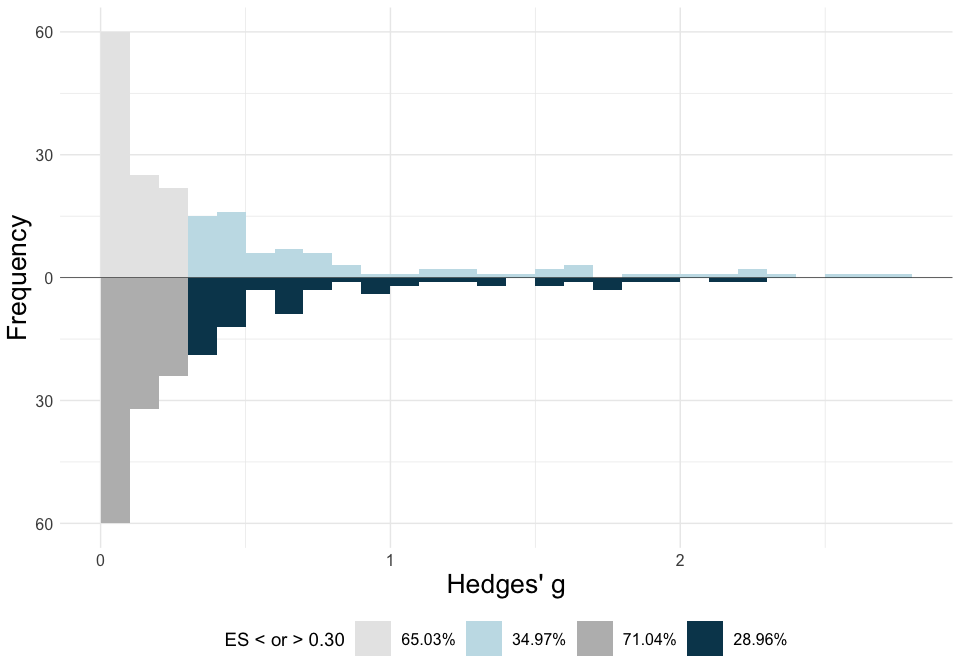
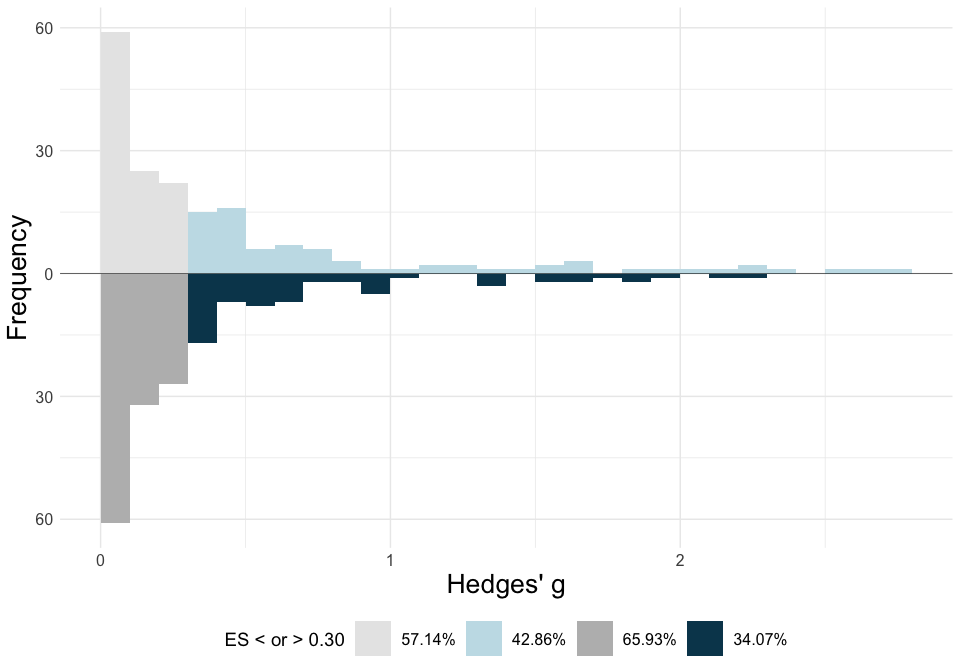
Update README

diff --git a/README.md b/README.md
@@ -22,9 +22,15 @@ with:
 ``` r
 library(devtools)
 devtools::install_github("berntgl/ESDist")
+#> utf8    (1.2.3 -> 1.2.4) [CRAN]
+#> vctrs   (0.6.3 -> 0.6.4) [CRAN]
+#> fansi   (1.0.4 -> 1.0.5) [CRAN]
+#> ggplot2 (3.4.3 -> 3.4.4) [CRAN]
 #> 
+#> The downloaded binary packages are in
+#>  /var/folders/j7/lmhpj_jj73qfc31klr2wh3vw0000gp/T//Rtmp0NjmSX/downloaded_packages
 #> ── R CMD build ─────────────────────────────────────────────────────────────────
-#> * checking for file ‘/private/var/folders/j7/lmhpj_jj73qfc31klr2wh3vw0000gp/T/Rtmp5Wg8I2/remotesddaf64c4f769/berntgl-ESDist-41a45d7/DESCRIPTION’ ... OK
+#> * checking for file ‘/private/var/folders/j7/lmhpj_jj73qfc31klr2wh3vw0000gp/T/Rtmp0NjmSX/remotesca616aeeb2f/berntgl-ESDist-b4c73d8/DESCRIPTION’ ... OK
 #> * preparing ‘ESDist’:
 #> * checking DESCRIPTION meta-information ... OK
 #> * checking for LF line-endings in source and make files and shell scripts
@@ -53,29 +59,29 @@ head(ESDist::ot_dat)
 #> 2 bakermans_kranenburg 10.1038/tp.2013.34               2018  averbeck_2012
 #> 3 bakermans_kranenburg 10.1038/tp.2013.34               2018  den-boer_1992
 #> 4 bakermans_kranenburg 10.1038/tp.2013.34               2018 epperson_1996a
-#> 5 bakermans_kranenburg 10.1038/tp.2013.34               2018 epperson_1996b
 #> 6 bakermans_kranenburg 10.1038/tp.2013.34               2018    feifel_2010
+#> 7 bakermans_kranenburg 10.1038/tp.2013.34               2018   goldman_2011
 #>                        study_doi study_year     yi lower upper   sei group
 #> 1        10.1073/pnas.0910249107       2010  0.534    NA    NA 0.281   ASD
 #> 2      10.1017/S0033291711001413       2012  0.192    NA    NA 0.192   SCZ
 #> 3   10.1016/0196-9781(92)90010-Z       1992 -0.877    NA    NA 0.563   OCD
 #> 4   10.1016/0006-3223(96)00120-5       1996  0.461    NA    NA 0.226   OCD
-#> 5   10.1016/0006-3223(96)00165-5       1996  0.000    NA    NA 0.000   OCD
 #> 6 10.1016/j.biopsych.2010.04.039       2010  0.520    NA    NA 0.265   SCZ
+#> 7      10.1007/s00213-011-2193-8       2011  0.000    NA    NA 0.262   SCZ
 #>   group_secondary favours_oxytocin    doses  meta_analysis_pop_ind  design n1
 #> 1                         positive   single bakermans_kranenburg_1  Within NA
 #> 2                         positive   single bakermans_kranenburg_1  Within NA
 #> 3                         positive multiple bakermans_kranenburg_1 Between  6
 #> 4                         positive multiple bakermans_kranenburg_1  Within NA
-#> 5                         positive multiple bakermans_kranenburg_1  Within NA
 #> 6                         positive multiple bakermans_kranenburg_1  Within NA
+#> 7                         positive   single bakermans_kranenburg_1  Within NA
 #>   n2 n_total   es_type raw_es ID raw_se df  h_factor
 #> 1 NA      13 Cohen's d   0.57  1   0.30 12 0.9361702
 #> 2 NA      21 Cohen's d   0.20  2   0.20 20 0.9620253
 #> 3  6      NA Cohen's d  -0.95  4   0.61 10 0.9230769
 #> 4 NA       7 Cohen's d   0.53  5   0.26  6 0.8695652
-#> 5 NA       2 Cohen's d   0.00  6   0.71  1 0.0000000
 #> 6 NA      15 Cohen's d   0.55  7   0.28 14 0.9454545
+#> 7 NA      13 Cohen's d   0.00  8   0.28 12 0.9361702
 ```
 
 ## esd_plot()
@@ -87,8 +93,6 @@ estimates obtained from meta-analyses.
 
 ``` r
 library(ESDist)
-library(dplyr)
-library(ggplot2)
 ```
 
 ``` r
@@ -248,7 +252,7 @@ table1 <- esd_table(df = ot_dat,
 
 table1
 #>                  25%  50% 75% Number of effects
-#> Raw effect size 0.06 0.23 0.5               183
+#> Raw effect size 0.06 0.24 0.5               182
 ```
 
 ### Calculate effect size benchmarks per group
@@ -264,17 +268,16 @@ table3 <- esd_table(df = ot_dat,
                     grouping_var = group)
 
 table3
-#>           Group  25%  50%  75% Number of effects
-#> 1            AN 0.02 0.05 0.06                 6
-#> 2           ASD 0.11 0.31 0.55                32
-#> 3           BPD 0.16 1.22 2.29                 5
-#> 4           OCD 0.23 0.46 0.67                 3
-#> 5          PTSD 0.20 0.32 0.38                 6
-#> 6           SCZ 0.05 0.13 0.24                20
-#> 7       anxiety 0.19 0.31 0.41                 4
-#> 8    depression 0.21 0.45 0.91                 6
-#> 9  neurotypical 0.05 0.25 0.66                89
-#> 10          All 0.06 0.23 0.50               183
+#>          Group  25%  50%  75% Number of effects
+#> 1           AN 0.02 0.05 0.06                 6
+#> 2          ASD 0.11 0.31 0.55                32
+#> 3          BPD 0.16 1.22 2.29                 5
+#> 4         PTSD 0.20 0.32 0.38                 6
+#> 5          SCZ 0.05 0.13 0.24                20
+#> 6      anxiety 0.19 0.31 0.41                 4
+#> 7   depression 0.21 0.45 0.91                 6
+#> 8 neurotypical 0.05 0.25 0.66                89
+#> 9          All 0.06 0.24 0.50               182
 ```
 
 ## esd_table_pba()
@@ -288,8 +291,8 @@ table4 <- esd_table_pba(lim_obj = l1)
 
 table4
 #>                       25%  50%  75% Number of effects
-#> Raw effect size      0.06 0.23 0.50               183
-#> Adjusted effect size 0.06 0.20 0.41               183
+#> Raw effect size      0.06 0.24 0.50               182
+#> Adjusted effect size 0.08 0.20 0.39               182
 ```
 
 In case the user wants effect size benchmarks per group, the user should
@@ -310,25 +313,23 @@ table5 <- esd_table_pba(lim_obj = l2,
 table5
 #>                        25%  50%  75% Number of effects
 #> AN                    0.02 0.05 0.06                 6
-#> AN adjusted           0.02 0.04 0.07                 6
+#> AN adjusted           0.04 0.07 0.09                 6
 #> ASD                   0.11 0.31 0.55                32
-#> ASD adjusted          0.11 0.26 0.42                32
+#> ASD adjusted          0.10 0.23 0.39                32
 #> BPD                   0.16 1.22 2.29                 5
-#> BPD adjusted          0.17 0.97 1.74                 5
-#> OCD                   0.23 0.46 0.67                 3
-#> OCD adjusted          0.32 0.40 0.54                 3
+#> BPD adjusted          0.19 0.92 1.82                 5
 #> PTSD                  0.20 0.32 0.38                 6
-#> PTSD adjusted         0.10 0.26 0.32                 6
+#> PTSD adjusted         0.12 0.22 0.29                 6
 #> SCZ                   0.05 0.13 0.24                20
-#> SCZ adjusted          0.09 0.13 0.19                20
+#> SCZ adjusted          0.08 0.15 0.18                20
 #> anxiety               0.19 0.31 0.41                 4
-#> anxiety adjusted      0.11 0.25 0.37                 4
+#> anxiety adjusted      0.06 0.21 0.36                 4
 #> depression            0.21 0.45 0.91                 6
-#> depression adjusted   0.16 0.39 0.75                 6
+#> depression adjusted   0.14 0.37 0.72                 6
 #> neurotypical          0.05 0.25 0.66                89
-#> neurotypical adjusted 0.05 0.20 0.58                89
-#> All                   0.06 0.23 0.50               183
-#> All adjusted          0.06 0.20 0.41               183
+#> neurotypical adjusted 0.06 0.20 0.55                89
+#> All                   0.06 0.24 0.50               182
+#> All adjusted          0.08 0.20 0.39               182
 ```
 
 ### Editing and saving tables
@@ -358,5 +359,5 @@ library(ggplot2)
 esd_perc(df = ot_dat,
          es = yi,
          value = 0.3)
-#> [1] 57.37705
+#> [1] 57.14286
 ```
